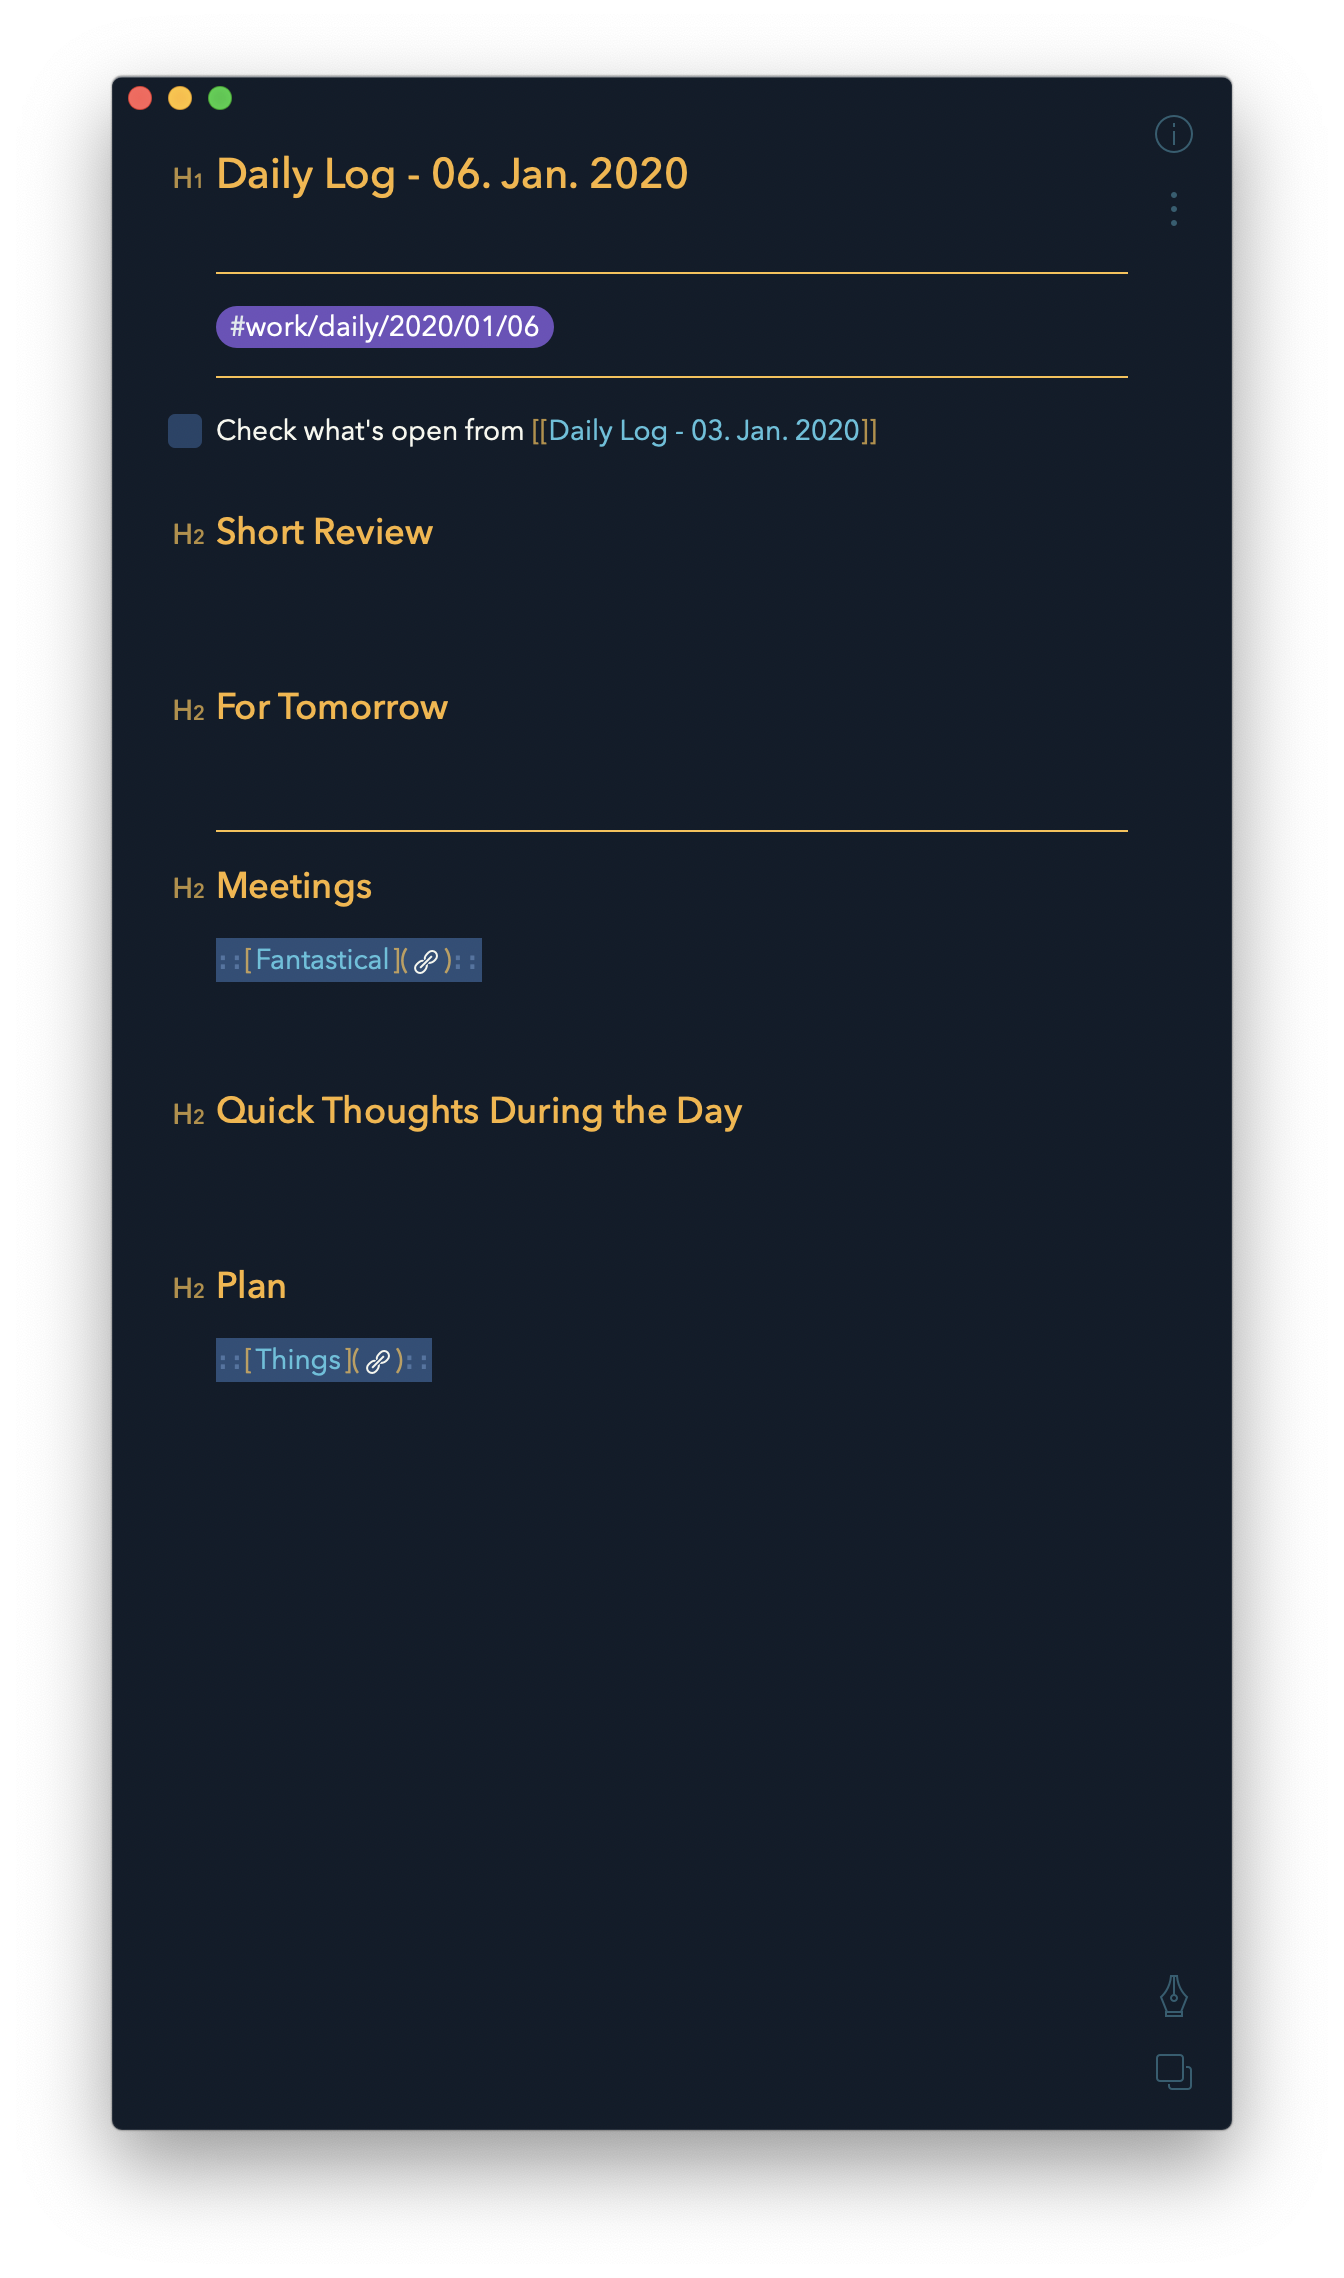
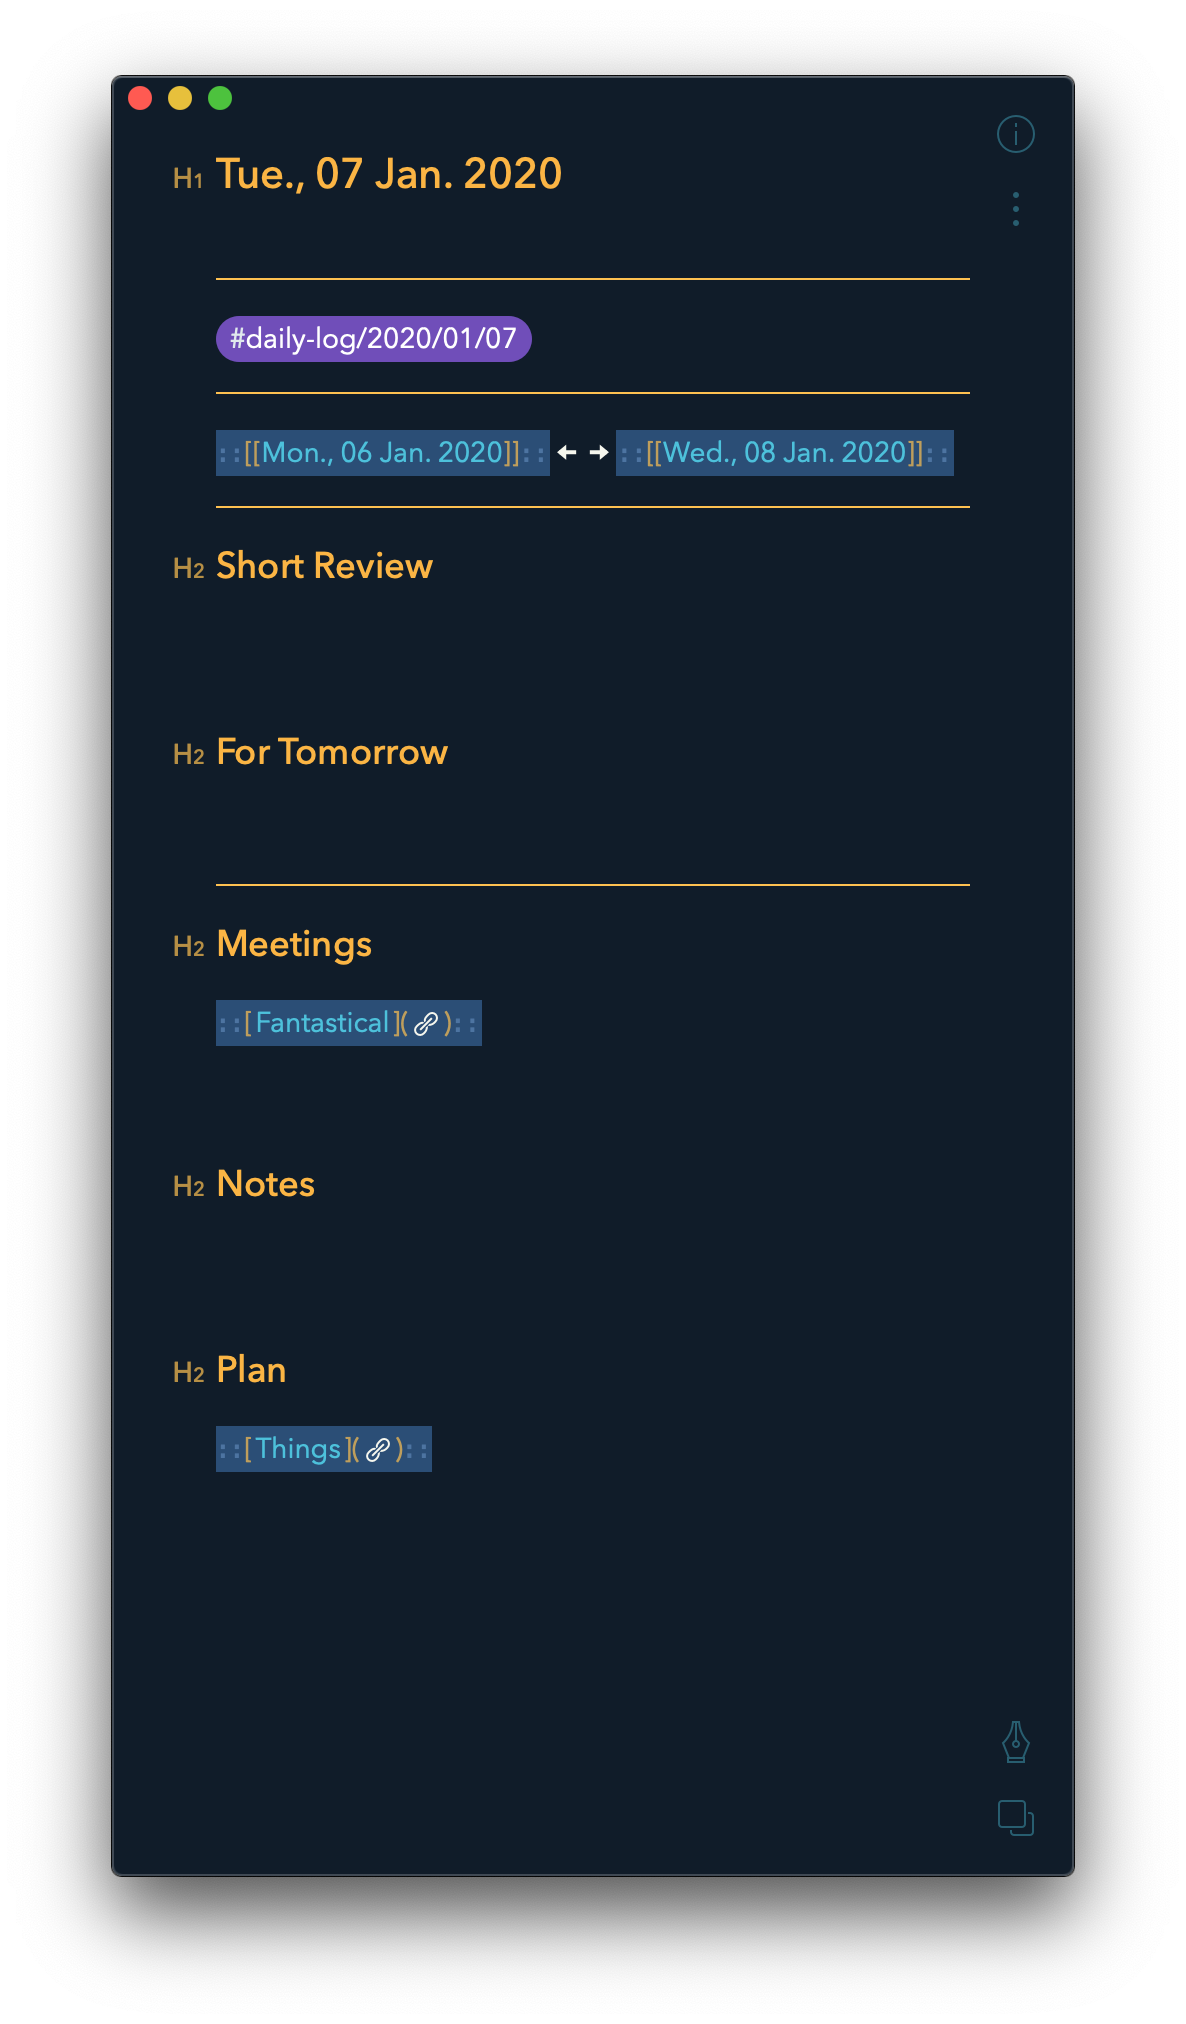
Use date format from the script

diff --git a/script.js b/script.js
@@ -1,17 +1,40 @@
 const date = require('date-and-time');
 
-
-function getDiffToLastWorkday() {
-    const today = date.format(new Date(), 'dd');
-    
-    let diffToLastWorkday = 1;
+function getDiffToLastWorkday(today) {
+    let diffToLastWorkday = -1;
     if (today === 'Mo') {
-        diffToLastWorkday = 3;
+        diffToLastWorkday = -3;
     }
 
+    return diffToLastWorkday
+}
+
+function getDiffToNextWorkday(today) {
+    let diffToNextWorkday = 1;
+    if (today === 'Fr') {
+        diffToNextWorkday = 3;
+    }
+
+    return diffToNextWorkday
+}
+
+
+function getData(variables) {
+    const format = variables.DATE_FORMAT;
+    const now = new Date();
+    const weekday = date.format(now, 'dd');
+    const nextDiff = getDiffToNextWorkday(weekday);
+    const lastDiff = getDiffToLastWorkday(weekday);
+    
+    const today = date.format(now, format);
+    const next = date.format(date.addDays(now, nextDiff), format);
+    const last = date.format(date.addDays(now, lastDiff), format);
+
     return {
-        lastWorkday: diffToLastWorkday
+        today: today,
+        last: last,
+        next: next
     }
 }
 
-module.exports = getDiffToLastWorkday;
+module.exports = getData;

diff --git a/ReadMe.md b/ReadMe.md
@@ -9,8 +9,10 @@ This script part of this template basically checks if it's monday or another day
 With the *Panic Mode* theme it could look like
 ![Screenshot](https://github.com/jmeischner/alfred-bear-daily-log/blob/public/screenshot.png?raw=true)
 
-## Possible Placeholder
-- lastWorkday
+## Possible Placeholders
+- today
+- next
+- last
 
 # Installation
 Clone or download this repository and put it e.g. into your *bearTemplateDirectory* - `~/.bear-templates` - which is usually the place where your *bearTemplateIndex* - `index.yml` - file is located.
@@ -23,6 +25,8 @@ Then put the following lines to your *index.yml*
     file: "<PathToRepo>/Daily Log.md"
     script: "<PathToRepo>/script.js"
     newWindow: <DisplayInANewWindow>
+    var:
+      DATE_FORMAT: "<DateFormat>"
 ```
 
 ### Variables
@@ -31,3 +35,6 @@ Path where you put the source code of this repository to. Either absolute or rel
 
 **DisplayInANewWindow**
 Should the note be displayed in a new bear window.
+
+**DateFormat**
+The date format for the note title. For the title of the screenshot it was `ddd., DD MMM. YYYY` used. For more information see [the docs](https://www.npmjs.com/package/date-and-time#api).

diff --git a/Daily Log.md b/Daily Log.md
@@ -1,9 +1,9 @@
-# Daily Log - {date:dd. MMM YYYY}
+# {{today}}
 ---
-#work/daily/{date: YYYY/MM/dd}
+#daily-log/{date: YYYY/MM/dd}
 ---
-- [ ] Check what's open from [[Daily Log - {date-{{lastWorkday}}D:dd. MMM YYYY}]]
-
+::[[{{last}}]]:: <- -> ::[[{{next}}]]::
+---
 ## Short Review
 
 
@@ -14,7 +14,7 @@
 ::[Fantastical](x-fantastical2://show/mini/{date:yyyy-MM-dd})::
 
 
-## Quick Thoughts During the Day
+## Notes
 
 
 ## Plan
